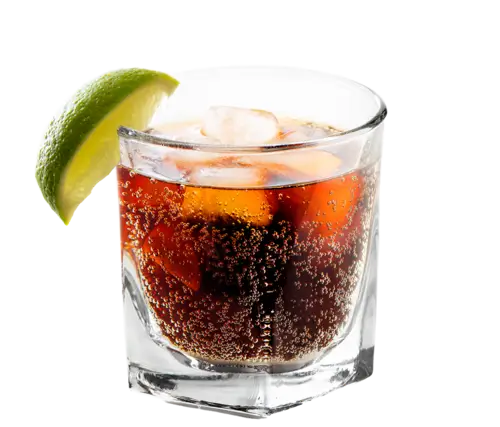
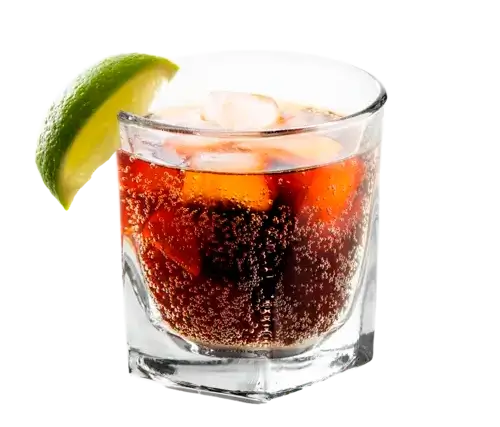
ajuste

Changed region(s): [[0.06, 0.1218, 0.78, 1.0], [0.72, 0.1522, 0.75, 0.1827]]

diff --git a/src/store/produtos.js b/src/store/produtos.js
@@ -100,14 +100,14 @@ export const produtosStore = defineStore("produto", {
         {
           id: 8,
           nome: "ENTRADAS",
-          img: "food6.png",
+          img: "food6.webp",
           descricao: "Para começar bem",
           url: "/combo",
         },
         {
           id: 1,
           nome: "PIZZAS",
-          img: "pizza.png",
+          img: "pizza.webp",
           descricao: "Monte do seu jeito",
           url: "/burger",
         },
@@ -121,14 +121,14 @@ export const produtosStore = defineStore("produto", {
         {
           id: 7,
           nome: "SOBREMESAS",
-          img: "food5.png",
+          img: "food5.webp",
           descricao: "Para adoçar",
           url: "/sobremesas",
         },
         {
           id: 4,
           nome: "BEBIDAS",
-          img: "food4.png",
+          img: "food4.webp",
           descricao: "Refrescantes",
           url: "/bebidas",
         },
@@ -144,7 +144,7 @@ export const produtosStore2 = defineStore("produto2", {
         {
           id: 8,
           nome: "ENTRADAS",
-          img: "food6.png",
+          img: "food6.webp",
           descricao: "Combo Completo",
           url: "/combo",
         },
@@ -172,14 +172,14 @@ export const produtosStore2 = defineStore("produto2", {
         {
           id: 7,
           nome: "SOBREMESAS",
-          img: "food5.png",
+          img: "food5.webp",
           descricao: "Para adoçar",
           url: "/sobremesas",
         },
         {
           id: 4,
           nome: "BEBIDAS",
-          img: "food4.png",
+          img: "food4.webp",
           descricao: "Refrescantes",
           url: "/bebidas",
         },

diff --git a/src/App.vue b/src/App.vue
@@ -5,7 +5,7 @@ import Footer from "./components/footer.vue";
 
 <template>
   <router-link to="/">
-    <img src="/logo.png" id="logo" alt="logo" />
+    <img src="/logo.webp" id="logo" alt="logo" />
   </router-link>
   <Cart />
   <router-view />
@@ -15,7 +15,7 @@ import Footer from "./components/footer.vue";
 <style>
 body {
   background-color: #141414;
-  background-image: url(/fundo.png);
+  background-image: url(/fundo.webp);
   margin: 0;
 }
 </style>

diff --git a/index.html b/index.html
@@ -1,8 +1,8 @@
 <!DOCTYPE html>
 <html lang="en">
   <head>
-    <link rel="icon" href="/logo2.png" type="image/jpg" />
-    <meta property="og:image" content="/logo2.png" />
+    <link rel="icon" href="/logo2.webp" type="image/jpg" />
+    <meta property="og:image" content="/logo2.webp" />
 
     <meta charset="UTF-8" />
     <meta

diff --git a/src/style.css b/src/style.css
@@ -66,7 +66,7 @@
 
 body {
   background-color: #201726;
-  background-image: url(/fundo.png);
+  background-image: url(/fundo.webp);
   margin: 0;
 }
 
